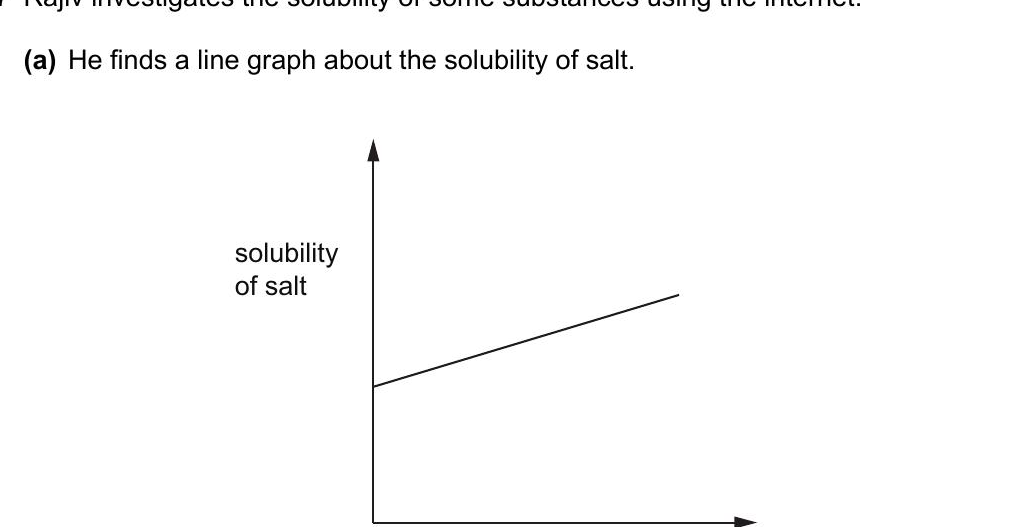
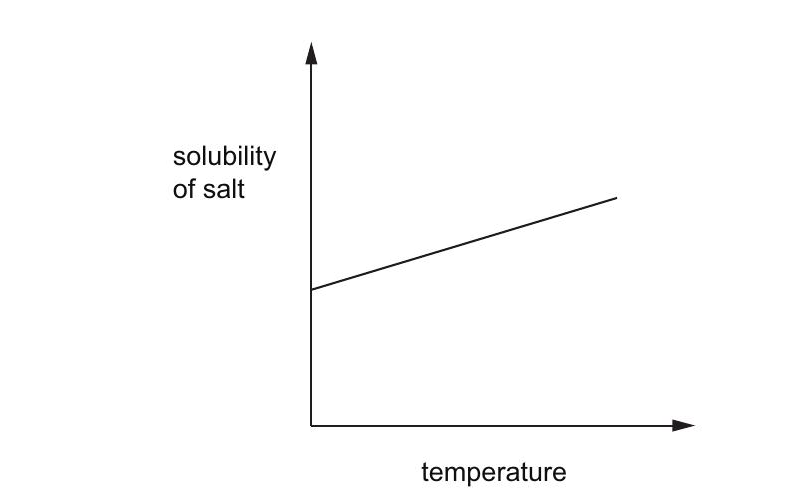
Fix QB6 vertical diagram labels; add arrow-insert button; update 3 PNGs
- QB6: replace horizontal Diagram A/B/C div with vertical side labels
  (.y7-particle-labeled flex wrapper; .y7-particle-abc column on right)
- QD1(d): wrap food-chain input in .food-chain-input-group; add arrow
  insert button calling insertArrow(); update placeholder to show
  "grass → slug → thrush → hawk" example
- Add insertArrow() to script.js (inserts ' → ' at cursor position)
- Add .arrow-insert-btn + .food-chain-input-group CSS to style-y7.css
- Updated q23a_salt_solubility_graph.png and q23b_oxygen_solubility_graph.png
  (question stem text trimmed from top; graph only)

diff --git a/assessment/year-7/en/assessment-y7.html b/assessment/year-7/en/assessment-y7.html
@@ -284,12 +284,14 @@
         <div class="q-marks">1 mark</div>
       </div>
       <div class="question-body">
-        <p class="question-text">Each diagram below shows the arrangement of particles in a different state of matter. The diagrams are labeled A, B and C from left to right. Which diagram (A, B or C) shows each state?</p>
-        <img src="q11_particle_diagrams.png" alt="three particle arrangement diagrams labeled A, B and C" class="y7-source-image">
-        <div class="y7-diagram-labels" aria-hidden="true">
-          <span>Diagram A</span>
-          <span>Diagram B</span>
-          <span>Diagram C</span>
+        <p class="question-text">Each diagram below shows the arrangement of particles in a different state of matter. The diagrams are labeled A (top), B (middle) and C (bottom). Which diagram shows each state?</p>
+        <div class="y7-particle-labeled">
+          <img src="q11_particle_diagrams.png" alt="three particle arrangement diagrams labeled A at top, B in middle and C at bottom" class="y7-source-image">
+          <div class="y7-particle-abc" aria-hidden="true">
+            <span>A</span>
+            <span>B</span>
+            <span>C</span>
+          </div>
         </div>
         <table class="y7-state-grid" role="group" aria-label="State of matter diagram selection">
           <thead>
@@ -645,7 +647,10 @@
         <div class="sub-question">
           <div class="sub-label"><span class="sub-letter">(d)</span><span class="sub-marks">1 mark</span></div>
           <p class="sub-text">Write down one food chain from this food web that contains the fox. Use arrows ( &rarr; ) between organisms.</p>
-          <input type="text" class="text-input" name="Y7_QD1_d_answer" id="input_Y7_QD1_d_answer" data-question-id="Y7_QD1_d" maxlength="80" placeholder="e.g. X &rarr; Y &rarr; Z">
+          <div class="food-chain-input-group">
+            <input type="text" class="text-input" name="Y7_QD1_d_answer" id="input_Y7_QD1_d_answer" data-question-id="Y7_QD1_d" maxlength="80" placeholder="e.g. grass &rarr; slug &rarr; thrush &rarr; hawk">
+            <button type="button" class="arrow-insert-btn" onclick="insertArrow('input_Y7_QD1_d_answer')">&rarr; insert</button>
+          </div>
         </div>
         <div class="sub-question">
           <div class="sub-label"><span class="sub-letter">(e)</span><span class="sub-marks">1 mark</span></div>

diff --git a/assessment/year-7/en/style-y7.css b/assessment/year-7/en/style-y7.css
@@ -125,17 +125,29 @@
   .y7-state-grid td { padding: 8px 12px; }
 }
 
-/* ─── QB6 Diagram A / B / C labels (below particle image, above grid) ─── */
-.y7-diagram-labels {
+/* ─── QB6 particle image + vertical A/B/C side labels ─── */
+.y7-particle-labeled {
   display: flex;
-  justify-content: space-evenly;
+  align-items: stretch;
+  margin: 1rem auto;
   max-width: min(100%, 600px);
-  margin: -2px auto 12px;
+  gap: 10px;
+}
+.y7-particle-labeled .y7-source-image {
+  margin: 0;           /* override the default auto-centering margin */
+  flex: 1 1 auto;
+  min-width: 0;
+}
+.y7-particle-abc {
+  display: flex;
+  flex-direction: column;
+  justify-content: space-around;
+  padding: 4px 0;
   font-family: "DM Sans", sans-serif;
   font-weight: 700;
-  font-size: 13px;
+  font-size: 18px;
   color: var(--orange, #d96b1f);
-  letter-spacing: .03em;
+  flex: 0 0 auto;
 }
 
 /* ─── QB6 match grid (legacy — now unused, kept harmless) ─── */
@@ -268,6 +280,35 @@
   .y7-keyb-grid { grid-template-columns: 1fr; }
   .y7-match-grid { grid-template-columns: 1fr; max-width: 100%; }
   .y7-note-cards { grid-template-columns: 1fr; }
+}
+
+/* ─── Arrow-insert button (food chain text inputs) ─── */
+.food-chain-input-group {
+  display: flex;
+  align-items: center;
+  gap: 8px;
+  margin: 6px 0;
+}
+.food-chain-input-group .text-input {
+  flex: 1 1 auto;
+  min-width: 0;
+}
+.arrow-insert-btn {
+  flex: 0 0 auto;
+  padding: 6px 12px;
+  font-size: 0.85rem;
+  cursor: pointer;
+  border: 1px solid var(--line, #ccc);
+  border-radius: 6px;
+  background: #f5f5ee;
+  color: var(--text, #333);
+  white-space: nowrap;
+  line-height: 1.4;
+}
+.arrow-insert-btn:hover {
+  background: rgba(217, 107, 31, .10);
+  border-color: var(--orange, #d96b1f);
+  color: var(--orange, #d96b1f);
 }
 
 /* ─── Legacy alias (kept harmless to avoid cache misses) ─── */

diff --git a/assessment/year-7/en/script.js b/assessment/year-7/en/script.js
@@ -132,6 +132,24 @@ function startTimer() {
 }
 
 /* ------------------------------------------------------------------
+   ARROW INSERT (food-chain text inputs)
+   Called by the "→ insert" button via onclick="insertArrow(id)".
+   Inserts " → " at the current cursor position in the target input
+   and moves the caret to just after the inserted text.
+------------------------------------------------------------------- */
+function insertArrow(inputId) {
+  const el = document.getElementById(inputId);
+  if (!el) return;
+  const pos = (el.selectionStart != null) ? el.selectionStart : el.value.length;
+  const val = el.value;
+  el.value = val.slice(0, pos) + ' → ' + val.slice(pos);
+  el.selectionStart = el.selectionEnd = pos + 3;
+  el.focus();
+  // Trigger progress update so the answered counter reflects the new value
+  el.dispatchEvent(new Event('input', { bubbles: true }));
+}
+
+/* ------------------------------------------------------------------
    QB6 COMPOSITE
    Three radio groups (Y7_QB6_solid_r / liquid_r / gas_r, each with
    values A/B/C) feed one hidden <input name="Y7_QB6_answer">.
